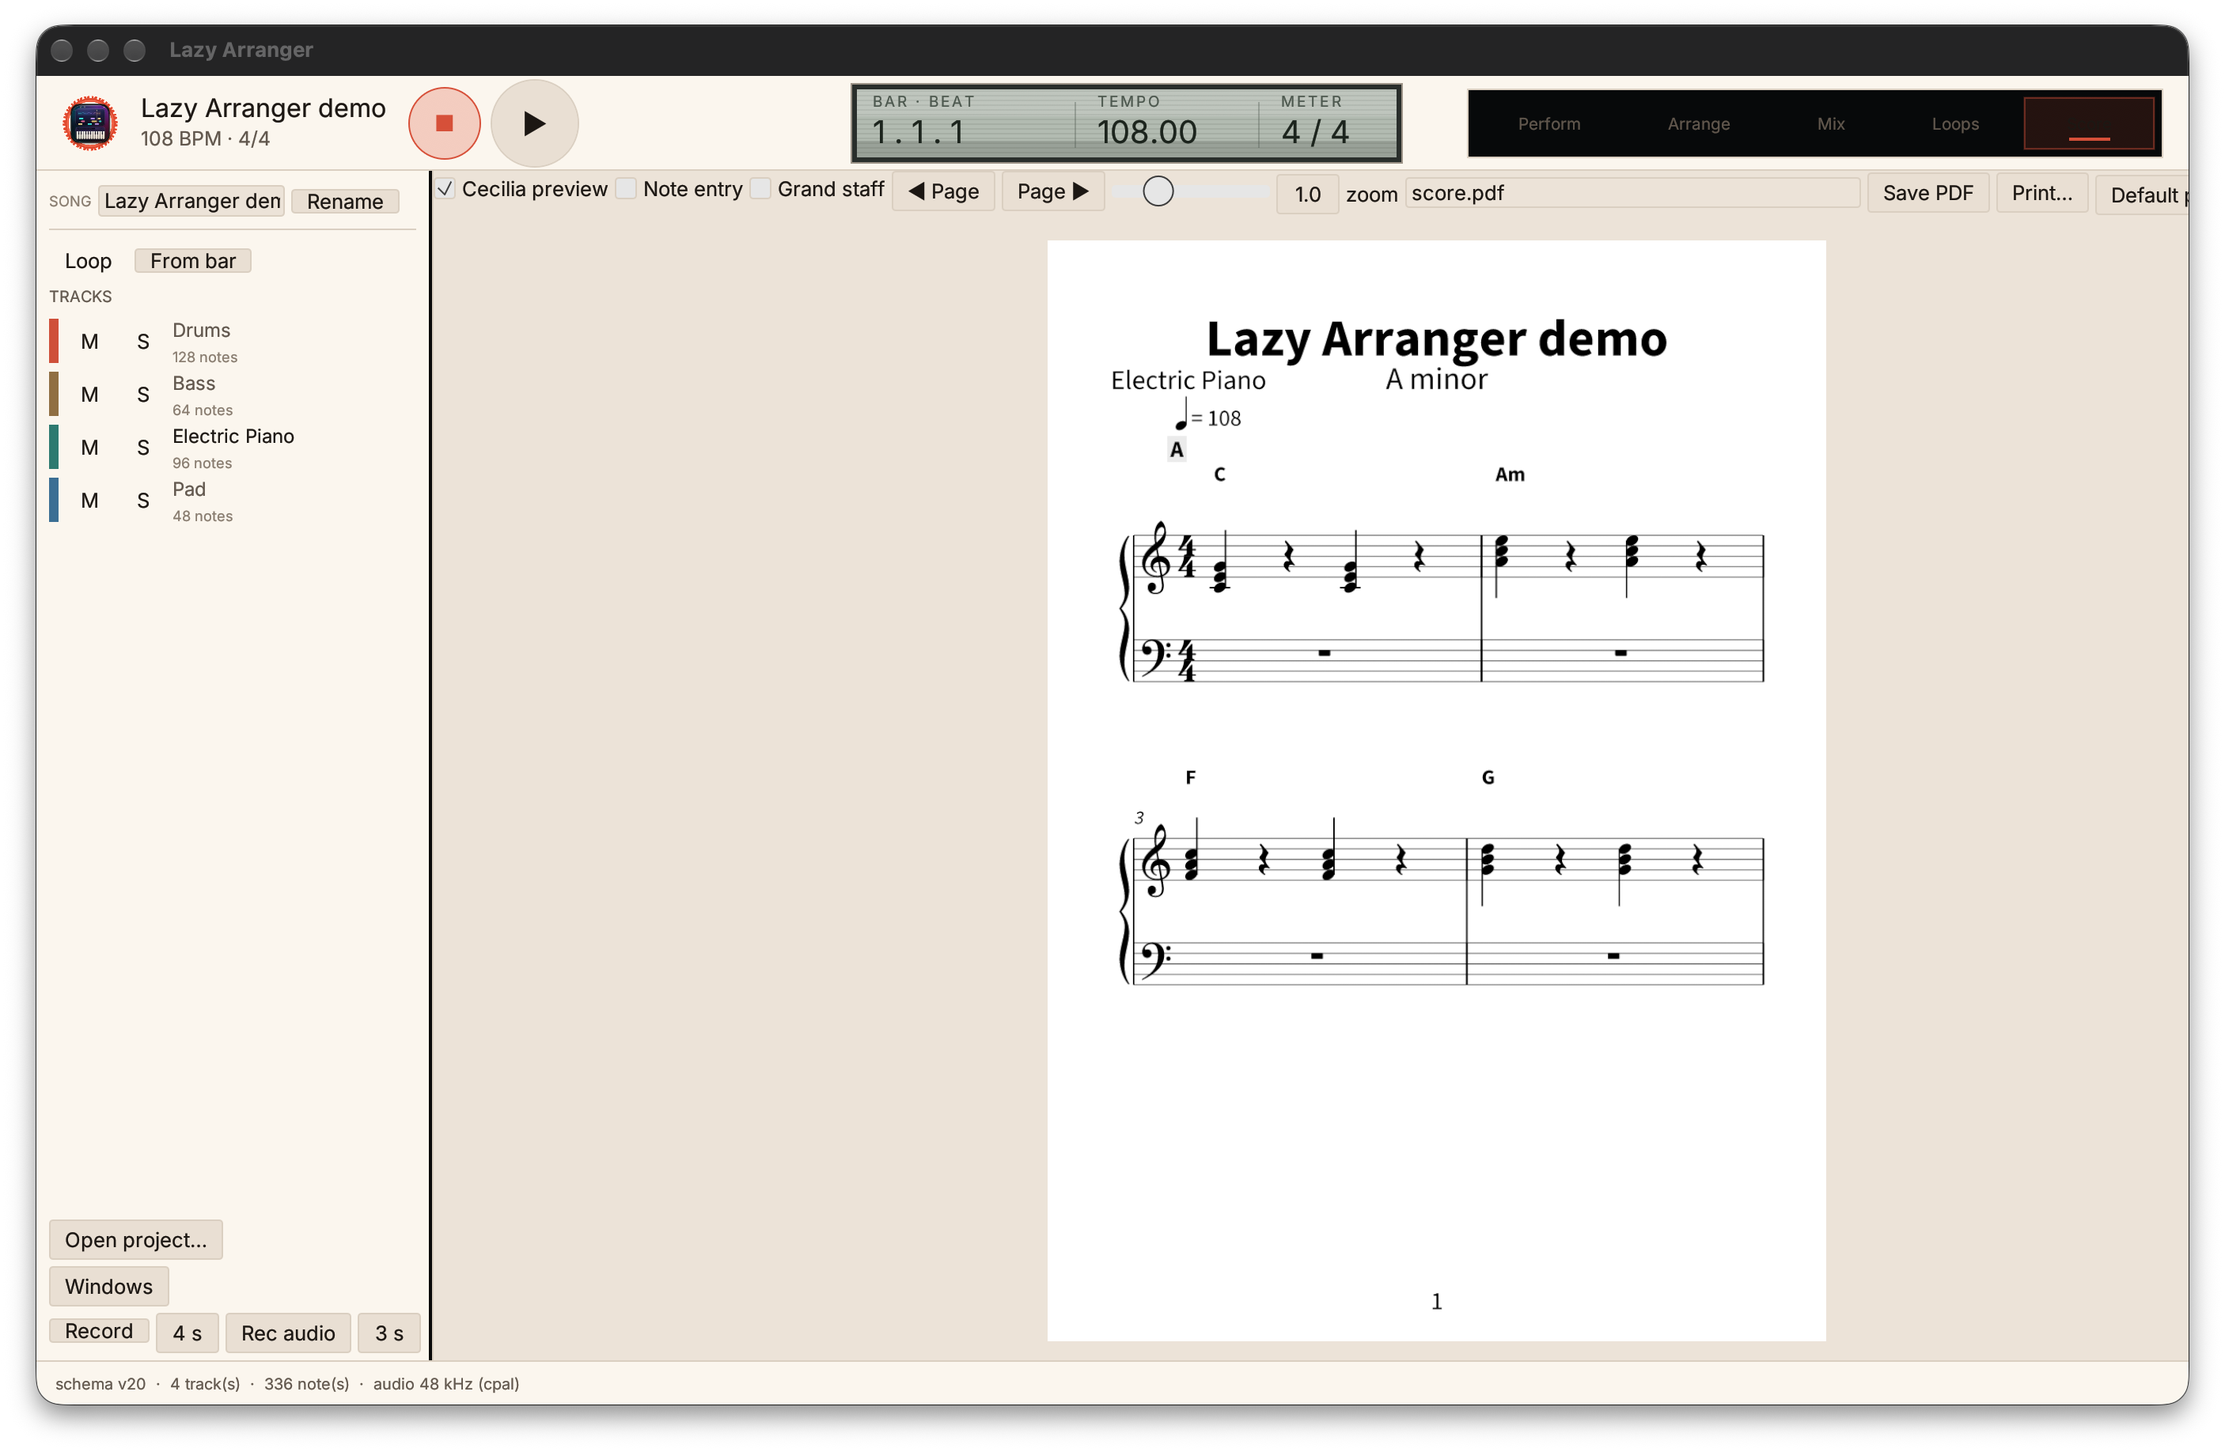
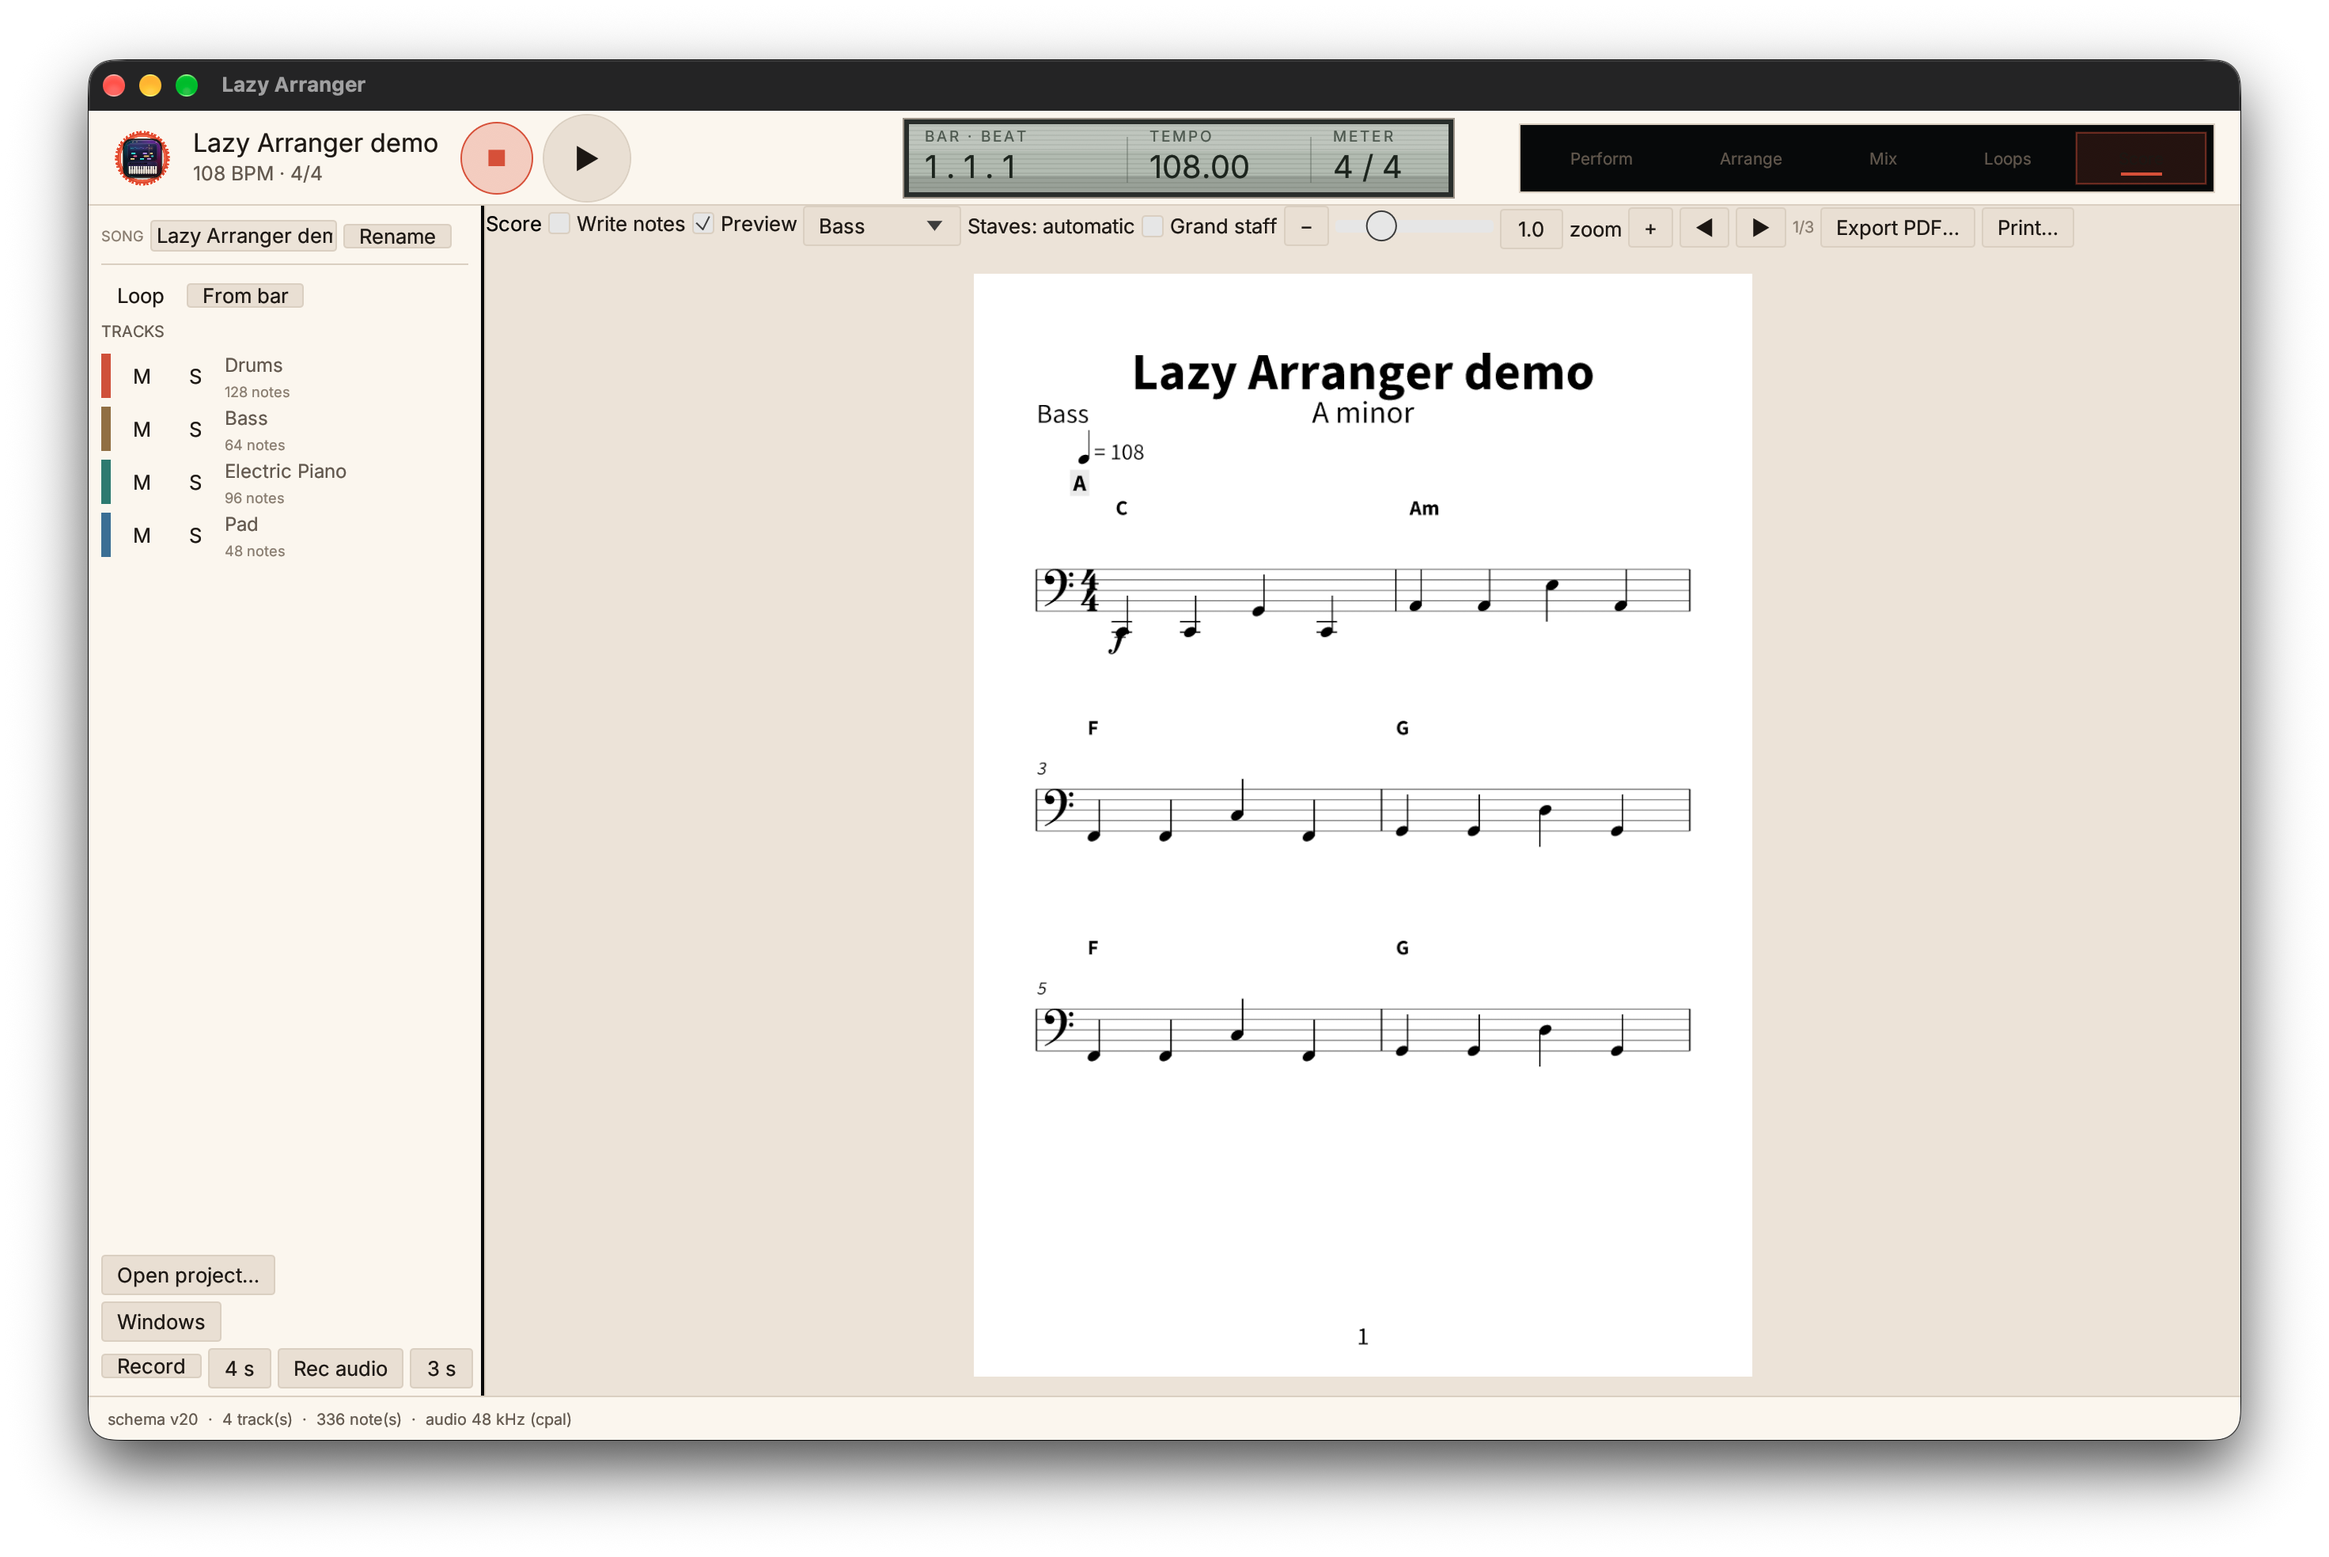
feat(score): C++-style score toolbar and default piano track
Reworks the score toolbar around Score/Write notes/Preview/track/Staves/zoom/
Export/Print, prefers a grand-staff piano track by default, and refreshes the
Cecilia capture. Keeps the printer picker in the print dialog.

663 tests pass; clippy, fmt and rustdoc clean.

Changed region(s): [[0.0, 0.0, 0.99, 0.9935]]

diff --git a/apps/desktop/src/app.rs b/apps/desktop/src/app.rs
@@ -436,6 +436,7 @@ pub struct ShellApp {
     score_grand: bool,
     score_preview: bool,
     score_pdf_path: String,
+    score_track: Option<TrackId>,
     score_state: crate::score_view::ScoreState,
     lyrics_open: bool,
     lyric_text: String,
@@ -617,6 +618,7 @@ impl ShellApp {
             score_grand: std::env::var("ARRANGER_GRAND").is_ok_and(|value| value == "1"),
             score_preview: std::env::var("ARRANGER_SCORE_EDIT").is_err(),
             score_pdf_path: String::from("score.pdf"),
+            score_track: None,
             score_state: crate::score_view::ScoreState::default(),
             lyrics_open: initial_window == "lyrics",
             lyric_text: String::new(),
@@ -681,8 +683,8 @@ impl ShellApp {
             return;
         }
         let Some(track) = self
-            .roll
-            .selected
+            .score_track
+            .or(self.roll.selected)
             .or_else(|| self.song().tracks.first().map(|track| track.id))
         else {
             return;
@@ -1969,6 +1971,20 @@ impl ShellApp {
                     ui.label("Pages");
                     ui.text_edit_singleline(&mut self.print_pages);
                 });
+                if !self.printers.is_empty() {
+                    egui::ComboBox::from_id_salt("print-dialog-printer")
+                        .selected_text(self.printer_choice.as_deref().unwrap_or("Default printer"))
+                        .show_ui(ui, |ui| {
+                            ui.selectable_value(&mut self.printer_choice, None, "Default printer");
+                            for name in &self.printers {
+                                ui.selectable_value(
+                                    &mut self.printer_choice,
+                                    Some(name.clone()),
+                                    name,
+                                );
+                            }
+                        });
+                }
                 ui.label(
                     egui::RichText::new("Example: 1-4, 7. Leave empty for all pages.")
                         .size(10.0)
@@ -1991,8 +2007,8 @@ impl ShellApp {
 
     fn print_score_pdf(&mut self) {
         let Some(track) = self
-            .roll
-            .selected
+            .score_track
+            .or(self.roll.selected)
             .or_else(|| self.song().tracks.first().map(|track| track.id))
         else {
             self.status = Some(String::from("no track to print"));
@@ -5386,14 +5402,81 @@ impl eframe::App for ShellApp {
                             self.printers = available_printers();
                             self.printers_loaded = true;
                         }
+                        if self.score_track.is_none() {
+                            self.score_track = project
+                                .song
+                                .tracks
+                                .iter()
+                                .find(|track| needs_grand_staff(track))
+                                .or_else(|| {
+                                    project.song.tracks.iter().find(|track| {
+                                        !track
+                                            .notes
+                                            .iter()
+                                            .any(|note| note.channel.zero_based() == 9)
+                                    })
+                                })
+                                .or_else(|| project.song.tracks.first())
+                                .map(|track| track.id);
+                        }
+                        let score_tracks: Vec<(TrackId, String)> = project
+                            .song
+                            .tracks
+                            .iter()
+                            .map(|track| (track.id, track.name.clone()))
+                            .collect();
                         ui.horizontal(|ui| {
-                            ui.checkbox(&mut self.score_preview, "Cecilia preview");
-                            ui.checkbox(&mut self.score_entry, "Write notes");
+                            ui.label(egui::RichText::new("Score").strong());
+                            let mut write = self.score_entry;
+                            if ui.checkbox(&mut write, "Write notes").changed() {
+                                self.score_entry = write;
+                                if write {
+                                    self.score_preview = false;
+                                }
+                            }
+                            let mut preview = self.score_preview;
+                            if ui.checkbox(&mut preview, "Preview").changed() {
+                                self.score_preview = preview;
+                                if preview {
+                                    self.score_entry = false;
+                                }
+                            }
+                            let selected = self
+                                .score_track
+                                .or_else(|| score_tracks.first().map(|(id, _)| *id));
+                            egui::ComboBox::from_id_salt("score-track")
+                                .selected_text(
+                                    selected
+                                        .and_then(|id| {
+                                            score_tracks
+                                                .iter()
+                                                .find(|(track, _)| *track == id)
+                                                .map(|(_, name)| name.as_str())
+                                        })
+                                        .unwrap_or("Selected track"),
+                                )
+                                .show_ui(ui, |ui| {
+                                    for (id, name) in &score_tracks {
+                                        ui.selectable_value(&mut roll.selected, Some(*id), name);
+                                    }
+                                });
+                            ui.label("Staves: automatic");
                             ui.checkbox(&mut self.score_grand, "Grand staff");
-                            if ui.button("◀ Page").clicked() {
+                            if ui.button("−").clicked() {
+                                self.score_zoom = (self.score_zoom - 0.1).max(0.5);
+                            }
+                            ui.add(
+                                egui::Slider::new(&mut self.score_zoom, 0.5..=2.5)
+                                    .text("zoom")
+                                    .fixed_decimals(1),
+                            );
+                            if ui.button("+").clicked() {
+                                self.score_zoom = (self.score_zoom + 0.1).min(2.5);
+                            }
+                            if ui.button("◀").clicked() {
                                 self.score_page = self.score_page.saturating_sub(1);
                             }
-                            if ui.button("Page ▶").clicked() {
+                            if ui.button("▶").clicked() {
                                 self.score_page += 1;
                             }
                             ui.label(
@@ -5405,50 +5488,16 @@ impl eframe::App for ShellApp {
                                 .size(10.0)
                                 .color(theme::text_dim()),
                             );
-                            ui.add(
-                                egui::Slider::new(&mut self.score_zoom, 0.5..=2.5)
-                                    .text("zoom")
-                                    .fixed_decimals(1),
-                            );
-                            ui.text_edit_singleline(&mut self.score_pdf_path);
                             if ui.button("Export PDF…").clicked() {
                                 save_pdf = true;
                             }
-                            if ui
-                                .button("Print…")
-                                .on_hover_text("Choose copies, pages and a printer")
-                                .clicked()
-                            {
+                            if ui.button("Print…").clicked() {
                                 self.print_dialog = true;
                             }
-                            if !self.printers.is_empty() {
-                                egui::ComboBox::from_id_salt("printer-choice")
-                                    .selected_text(
-                                        self.printer_choice.as_deref().unwrap_or("Default printer"),
-                                    )
-                                    .show_ui(ui, |ui| {
-                                        ui.selectable_value(
-                                            &mut self.printer_choice,
-                                            None,
-                                            "Default printer",
-                                        );
-                                        for name in &self.printers {
-                                            ui.selectable_value(
-                                                &mut self.printer_choice,
-                                                Some(name.clone()),
-                                                name,
-                                            );
-                                        }
-                                    });
-                            }
-                            ui.label(
-                                egui::RichText::new("Shift-drag to resize")
-                                    .size(10.0)
-                                    .color(theme::text_dim()),
-                            );
                         });
-                        if let Some(track) = roll
-                            .selected
+                        if let Some(track) = self
+                            .score_track
+                            .or(roll.selected)
                             .or_else(|| project.song.tracks.first().map(|track| track.id))
                         {
                             let grand_staff = self.score_grand
